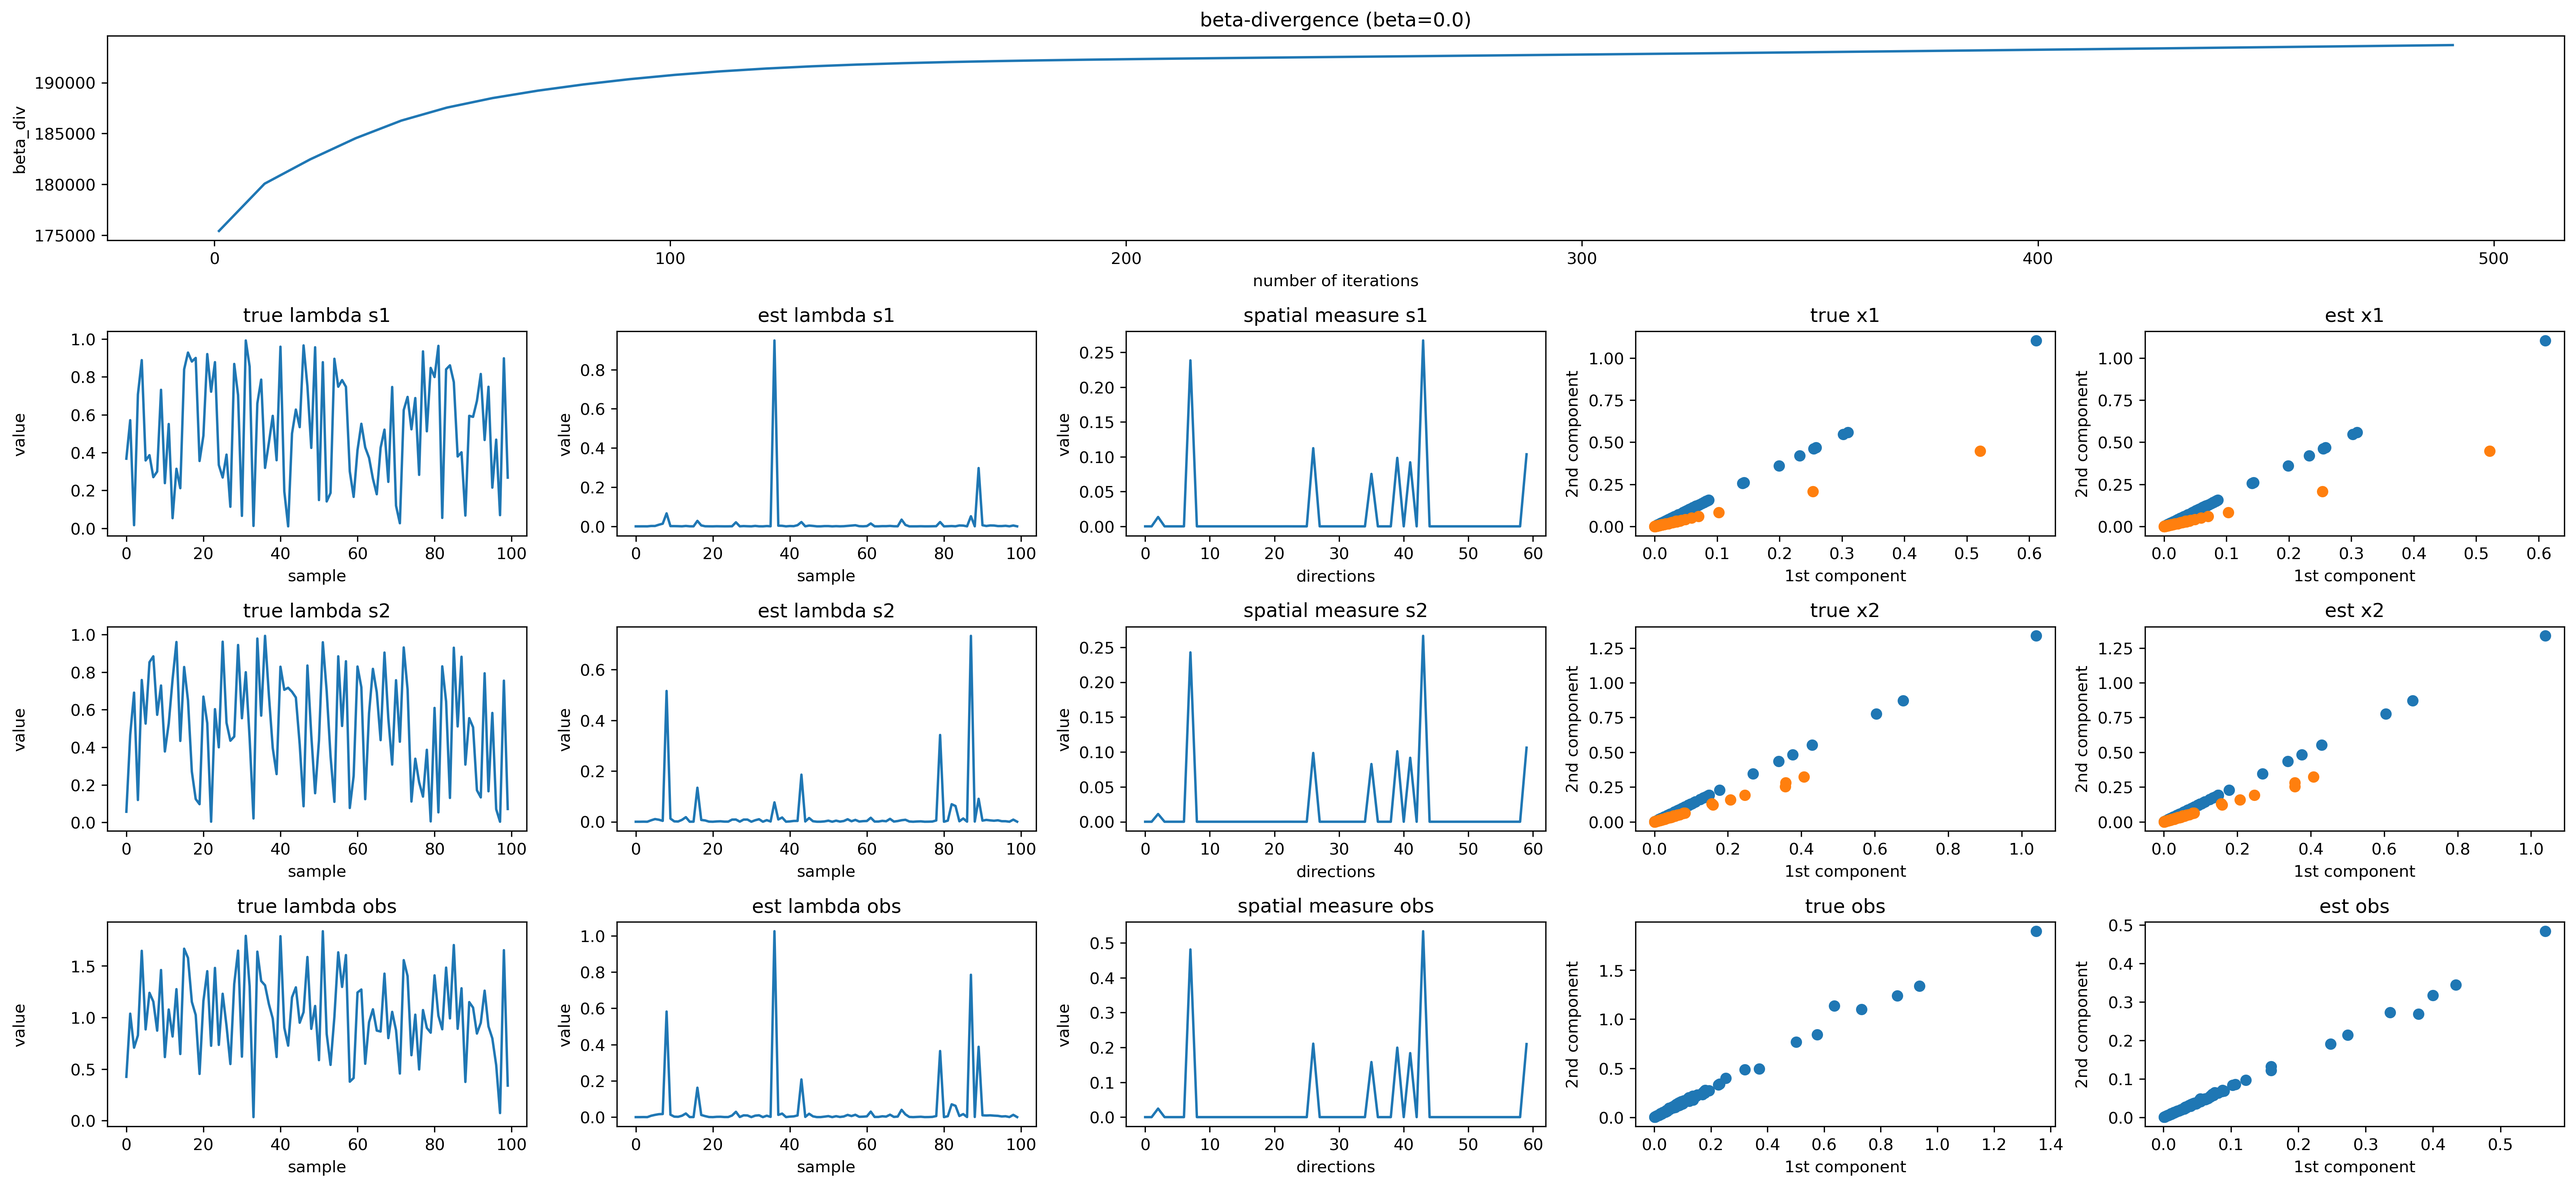
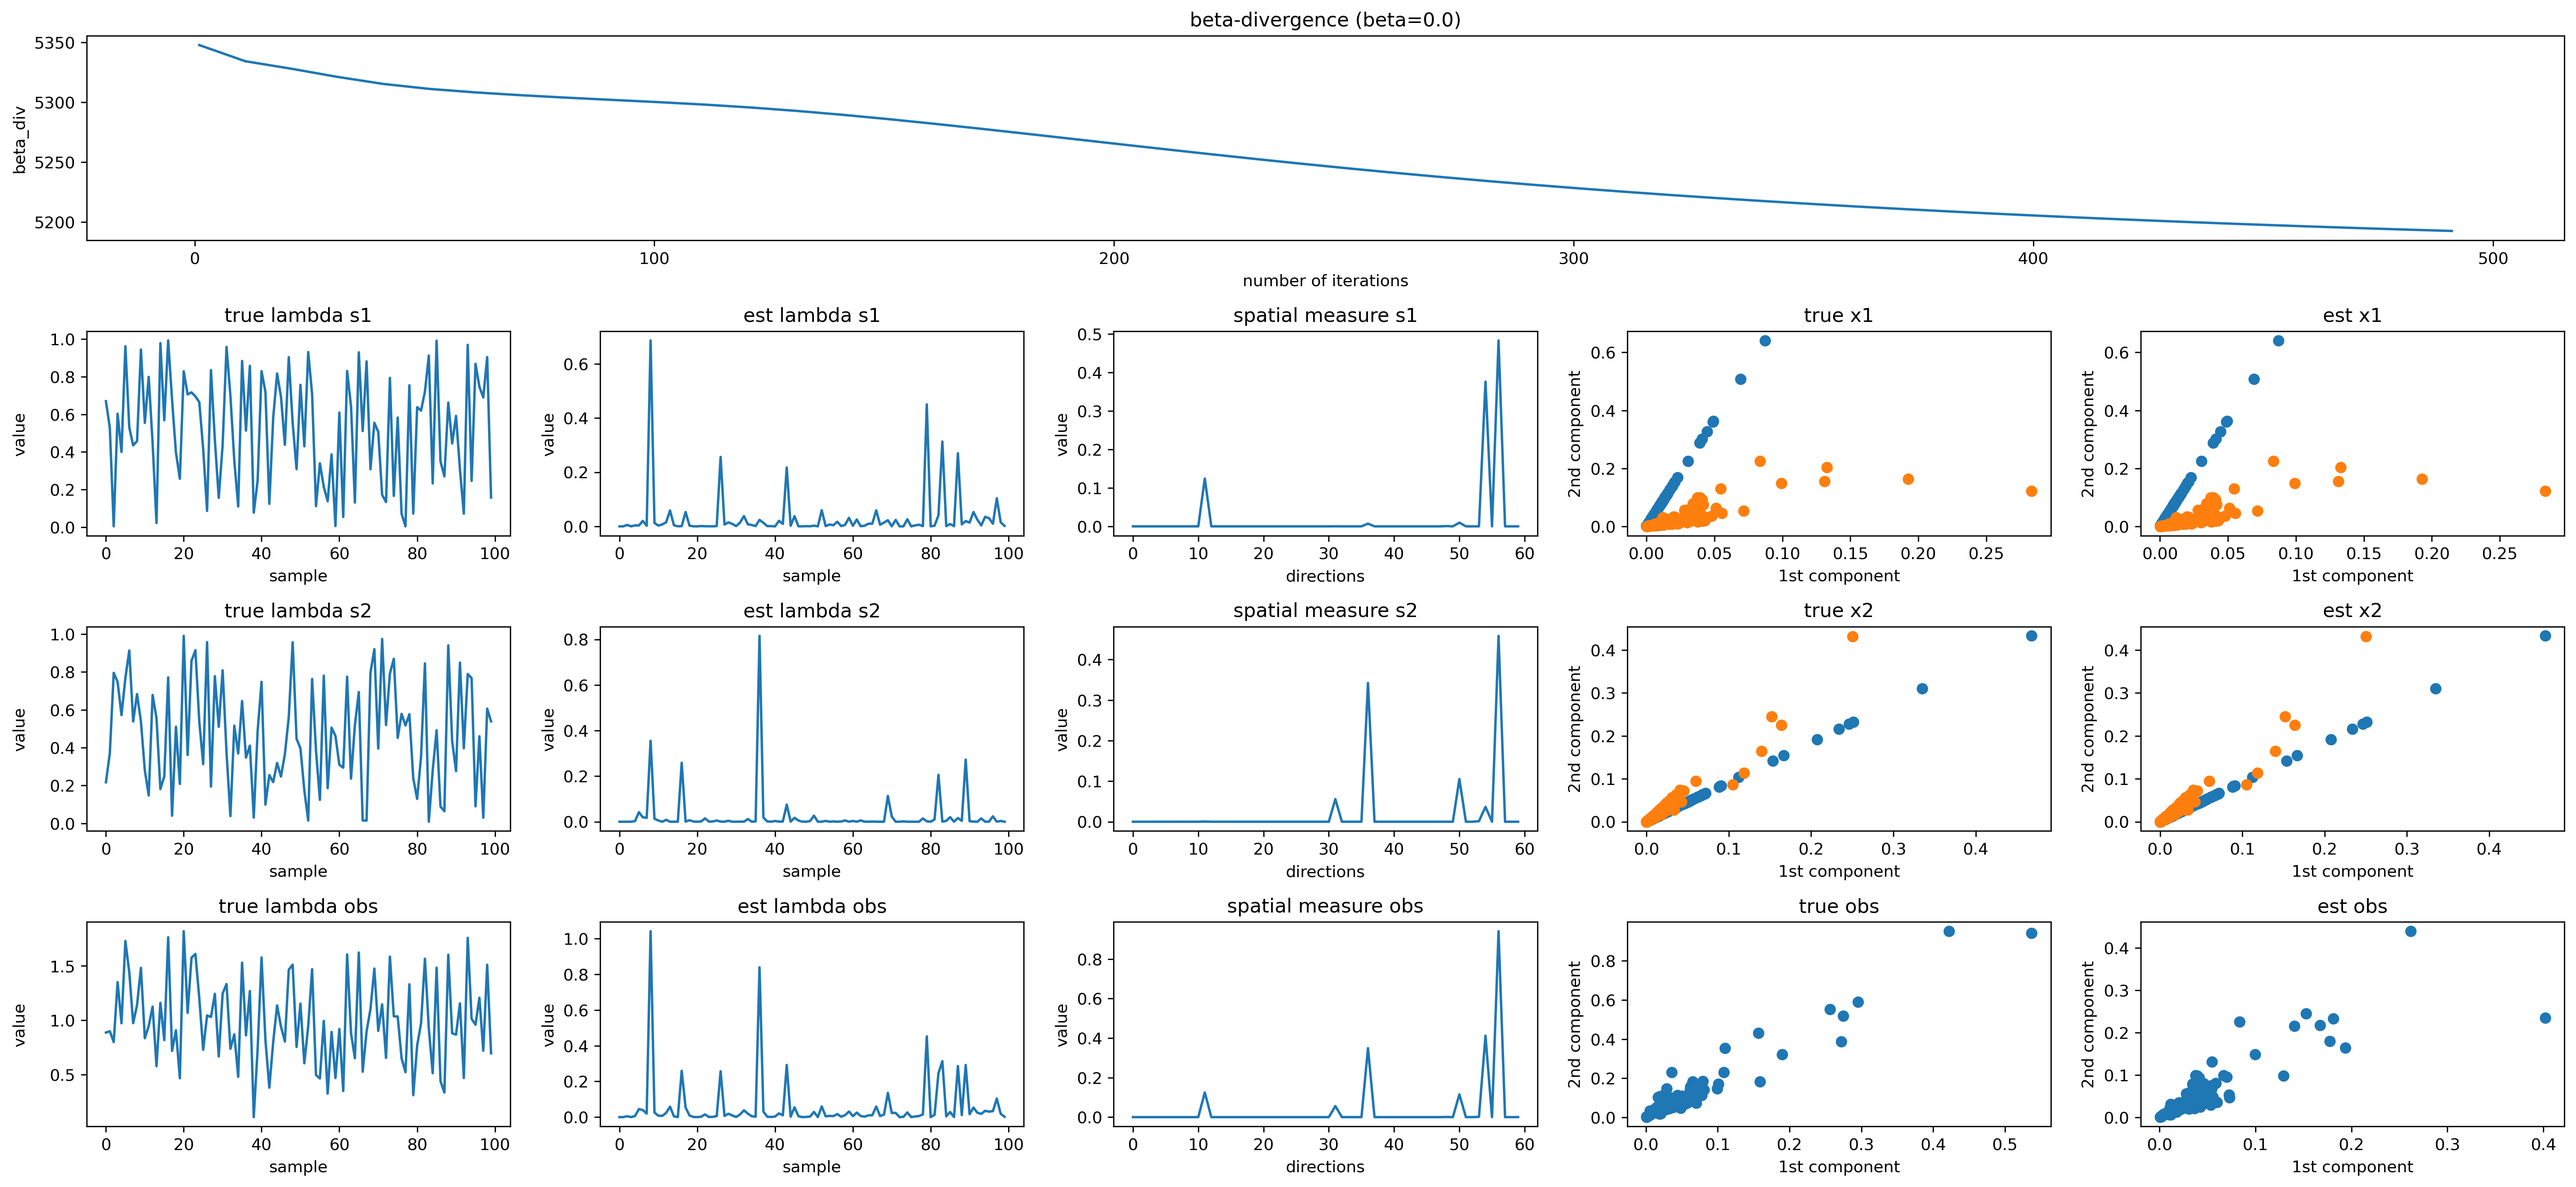
debug again

diff --git a/code/alpha_SpatialMNMF_toy.py b/code/alpha_SpatialMNMF_toy.py
@@ -188,8 +188,8 @@ class alpha_SpatialMNMF():
 
     def init_SMs(self):
         if "ones" == self.init_SM:
-            self.SM_NP = self.xp.ones((self.n_source, self.n_Th)).astype(self.xp.float)
-            # self.SM_NFP = self.rand_s.rand(self.n_source, self.n_freq, self.n_Th)
+            # self.SM_NP = self.xp.ones((self.n_source, self.n_Th)).astype(self.xp.float)
+            self.SM_NP = self.xp.abs(self.rand_s.rand(self.n_source, self.n_Th)).astype(self.xp.float)
         elif "circ" == self.init_SM:
             self.SM_NP =  self.xp.maximum(1e-2, self.xp.zeros([self.n_source, self.n_Th], dtype=self.xp.float))
             for p in range(self.n_Th):
@@ -289,7 +289,7 @@ class alpha_SpatialMNMF():
         # self.lambda_NFT = self.xp.array(lambda_true_NFT)
         self.Y_TP = (self.lambda_NT[..., None] * self.G_NP[:, None]).sum(axis=0)
         # Numerator
-        ThTh_alpha = self.ThTh_PP * (self.xp.abs(self.ThTh_PP) ** (self.alpha - 2.))  # P x P'
+        ThTh_alpha = self.ThTh_PP.conj() * (self.xp.abs(self.ThTh_PP) ** (self.alpha - 2.))  # P x P'
         temp_num = ThTh_alpha[None] / (self.Y_TP[:, None, :] ** (2 * self.n_mic/self.alpha + 1.))  # T x P x P'
 
         # T x  P x P' x M
